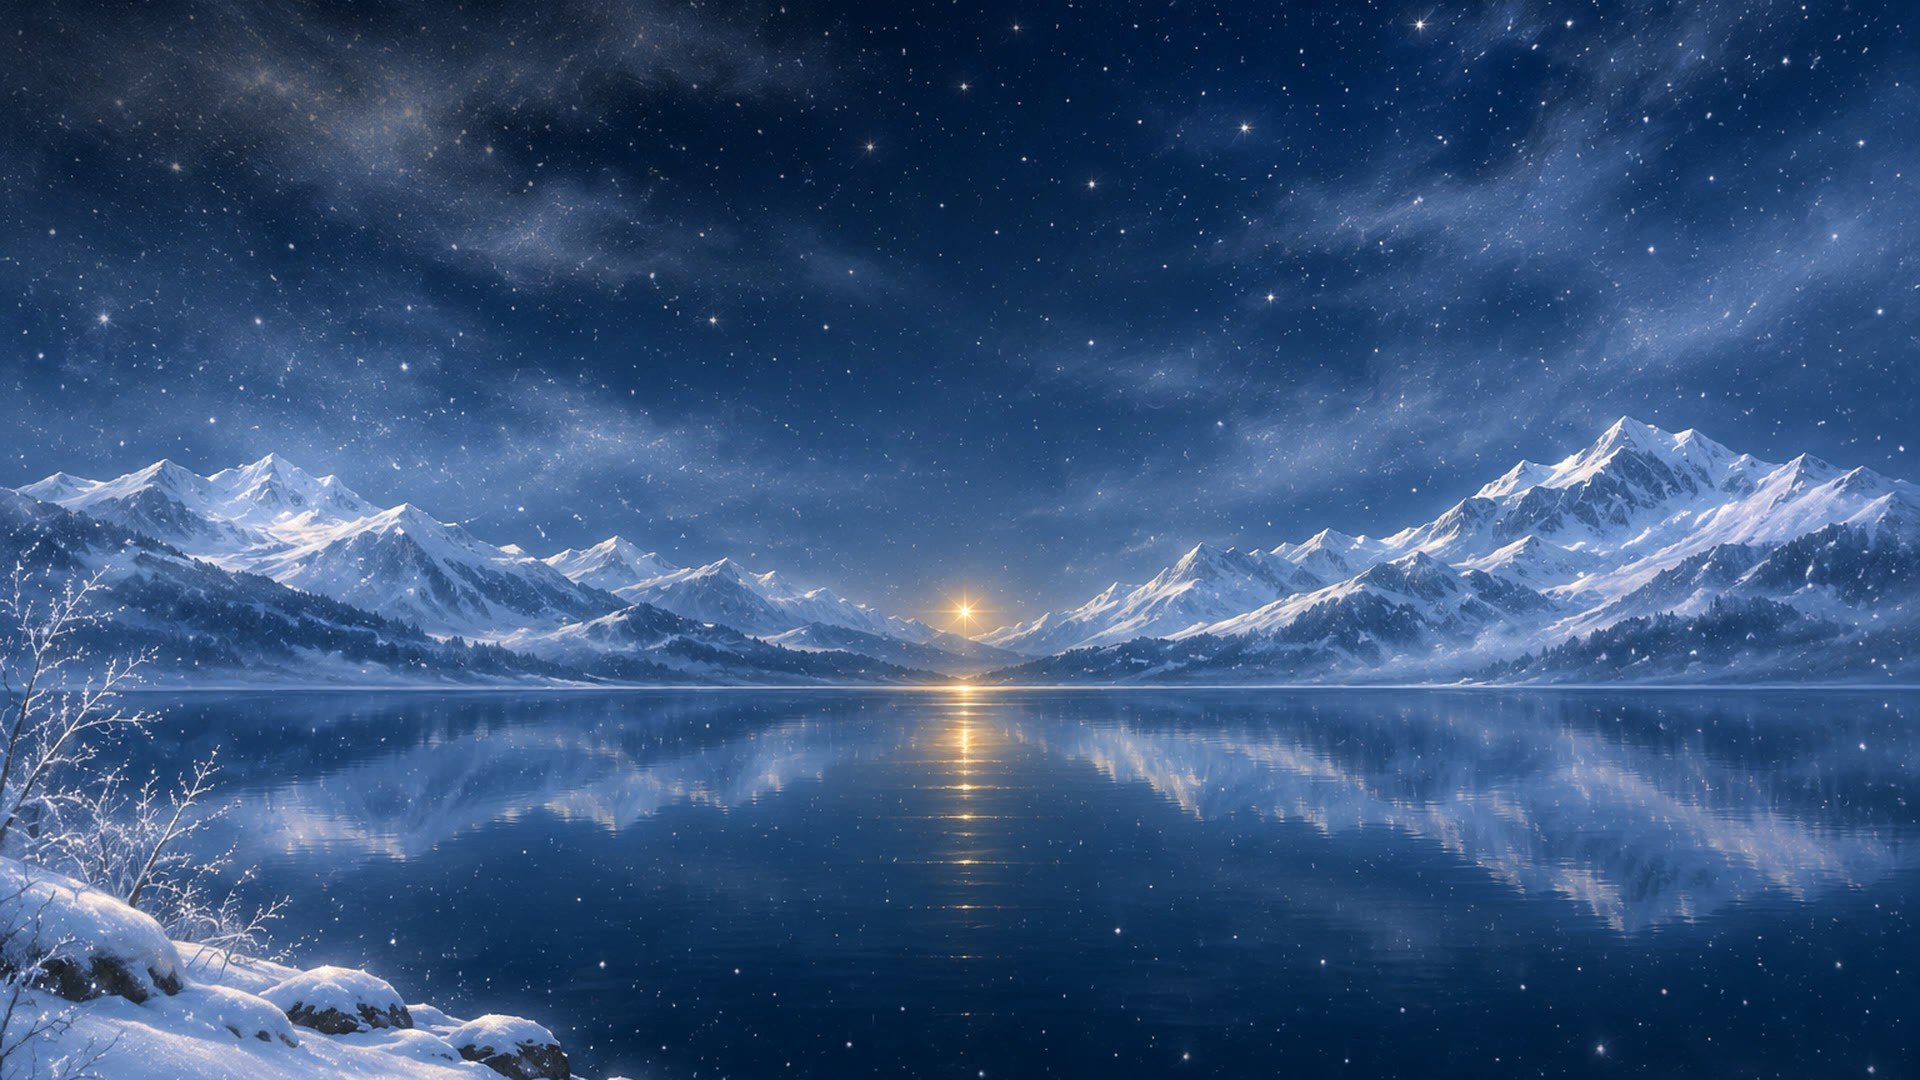
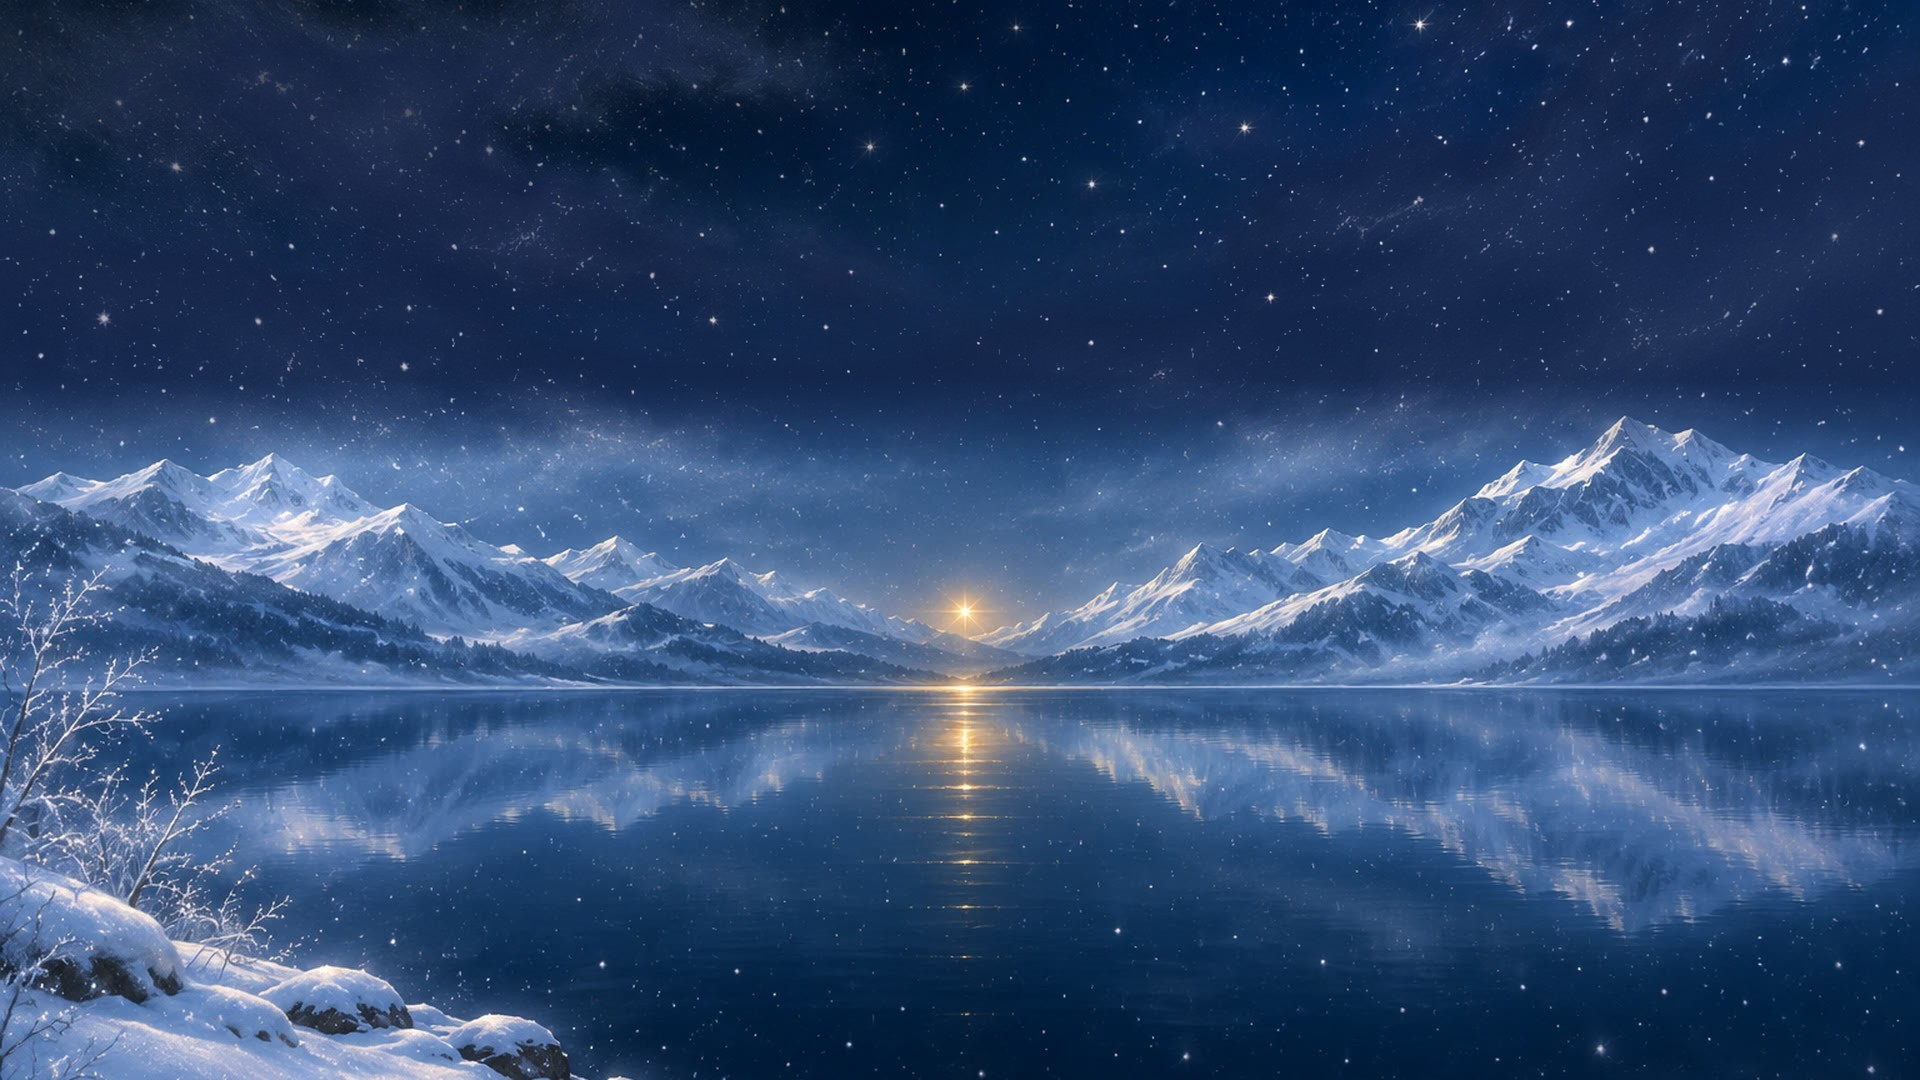
Song 02 round 4: trio walks across the ice (figure motion), fifth head masked, calm candles, no star band, rose clear of the title
Claude-Session: https://claude.ai/code/session_01DSHsMeB7ain7qg3RYXYMEW

diff --git a/engine/songs/s02_the_rose.py b/engine/songs/s02_the_rose.py
@@ -134,7 +134,7 @@ class Song:
 
 # ----------------------------------------------------------------- the minute (seconds into the promo)
 RING_SPANS = []        # no drawn piano rings: every scene is a painted plate with its own water
-FIG_IN = 11.0          # one brief appearance: the trio and the traveler, about 5 seconds, always moving
+FIG_IN = 10.9          # one brief appearance: the trio and the traveler, about 5.5 seconds, walking the whole time
 ENC_FORM = 16.4        # the words start forming once the people have gone up as light (fully formed about 20.15)
 ENC_HOLD = 26.3        # the words begin to fly (6.15 seconds fully formed and solid)
 ENC_ARRIVE = 28.8      # they reach star 7: a flare and one new thin ring
@@ -186,10 +186,13 @@ AURORA_COOL = ("#c9d8ff", "#e4d8ff")
 #   2 the violet light on the ice and the field of candle lights: the trio passes briefly as light (10.5 to 30)
 #   3 under the snow: high ice ceiling, the seed and its gold roots in the soil (27.5 to 42)
 #   4 low close shot on the near shore: the rose of light, then the end card beside it (39.7 to 60)
-# The plates were touched up for song 02 (plates_fix notes in project-docs/status/02.md): the top left star
-# band of a_first_snow dimmed, the light column and pool of c_violet_ice darkened behind the people and the
+# The plates were touched up for song 02 (plates_fix notes in project-docs/status/02.md): the star band of
+# a_first_snow (a Milky Way look, song 01's) taken down to plain night sky, the bottom candles of c_violet_ice
+# dimmed so the lower third stays calm, the light column and pool of c_violet_ice darkened behind the people and the
 # candles at its bottom edge calmed, the ice ceiling of d_seed darkened near the arch, the ice floes of
-# e_thaw_rose painted out and its sky near the arch calmed.
+# e_thaw_rose painted out (round 4: the last ones melted) and its sky near the arch calmed; the rose picture is
+# moved about 0.065 right and 0.14 down inside the frame (gaps filled with mirrored sky and shore) so the rose
+# clears the corner title.
 P = "assets/plates/s02/"
 SCENES = [
     dict(image=P + "a_first_snow.jpg", t0=0.0, t1=13.0, fade_in=1.0, fade_out=2.5,
@@ -235,10 +238,15 @@ for i in range(9):
 # rises with them (pose 3), and at once they all go up as light. About 5 seconds, in motion the whole time,
 # gone before the Encouragement words form; the words, the violet light and the star carry the expression.
 SF = "assets/song_figures/s02/"
+# Round 4: the group walks slowly left across the ice, away from the bright violet column, the whole time
+# (engine figure motion, UPGRADE-HOWTO section G); a short quick pose change so they never blur into one blob;
+# a softer glow so they read as people on the violet. trio_3_rise has the raised lantern masked out (it read as
+# a fifth head).
 FIGURES = [
     dict(poses=[SF + "trio_2_encourage.png", SF + "trio_3_rise.png"],
-         t0=FIG_IN, t1=13.9, gather=2.0, pose_times=[12.6], morph=1.3, dissolve=2.2, leave="drift",
-         x=0.40, y=0.34, height=0.32, color="#ffd9a8", glow=0.9),   # pale gold, beside the violet column
+         t0=FIG_IN, t1=14.4, gather=1.5, pose_times=[12.9], morph=0.8, dissolve=2.0, leave="drift",
+         x=(0.42, 0.27), move=(FIG_IN, 16.4), ease="linear", bob=0.6,
+         y=0.34, height=0.30, color="#ffd9a8", glow=0.7),   # pale gold, walking left of the violet column
 ]
 
 OFF = dict(form=1e9, hold=1e9, star=1e9)
